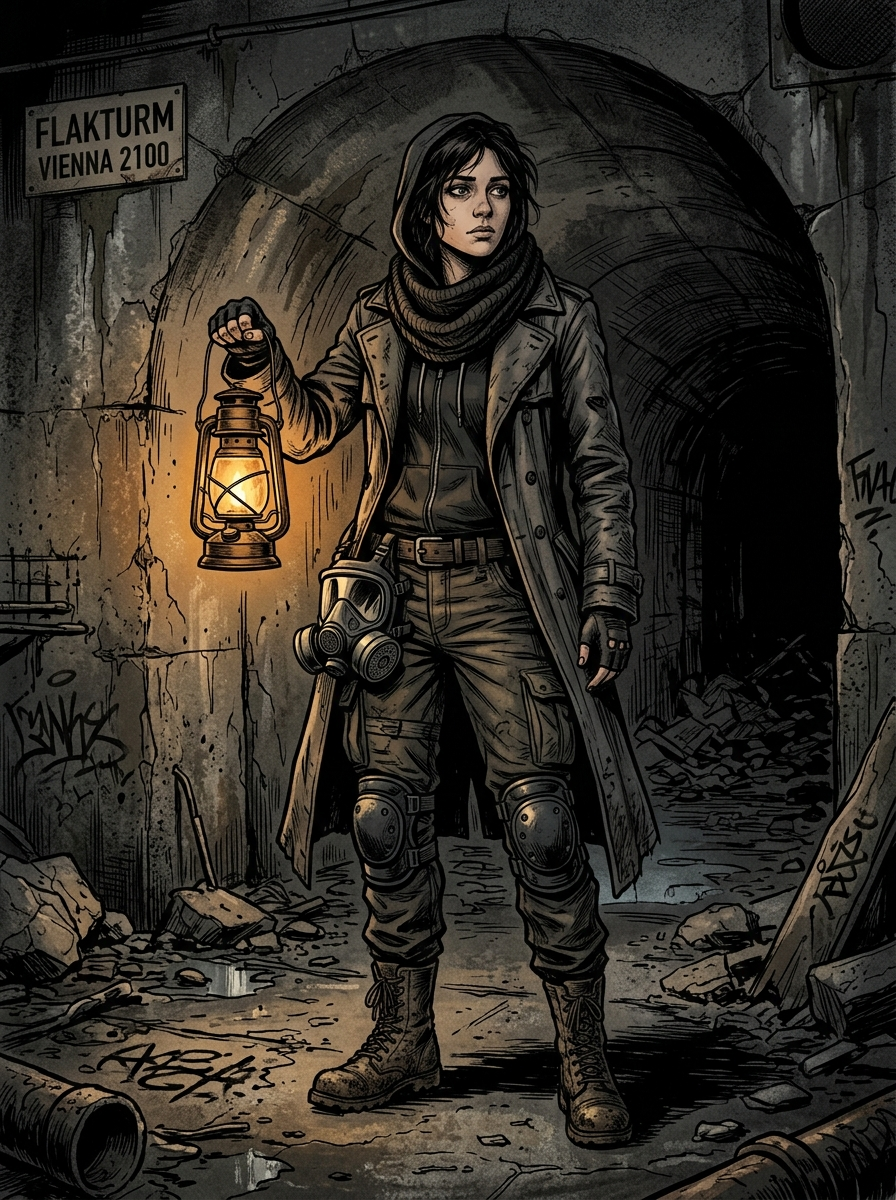
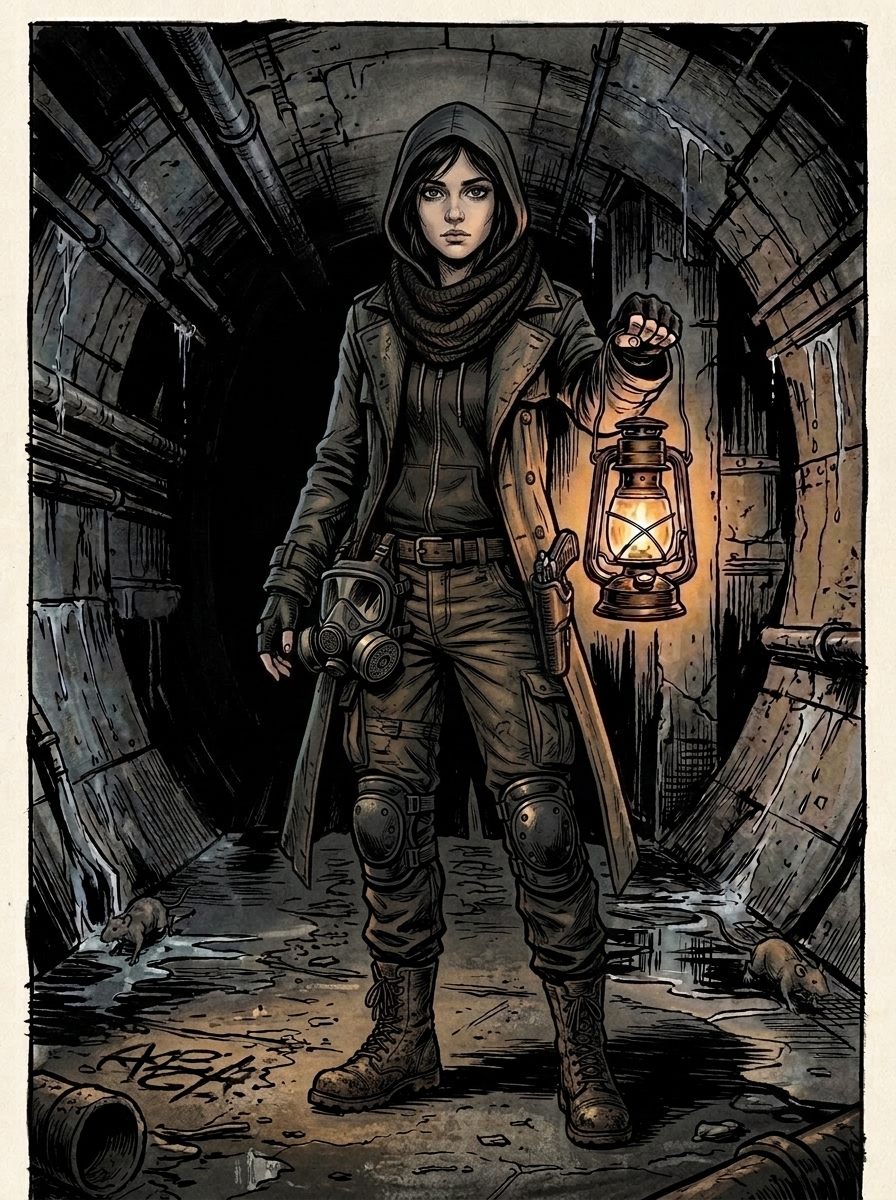
The beginning is the most important part of the work.

diff --git a/src/apps/and-now/docs/concept-dossier.html b/src/apps/and-now/docs/concept-dossier.html
@@ -394,16 +394,16 @@
             <img src="./assets/novotny-male/hoodie.jpg" alt="Novotny (Männlich) mit Hoodie und Loop-Schal im Flakturm" />
           </div>
           <div class="card-content">
-            <span class="card-category">Charakter-Konzept (Staubschutz-Modus)</span>
+            <span class="card-category">Kanonischer Ur-Charakter (Adam)</span>
             <h3 class="card-title">Novotny — Der Schacht-Inspektor</h3>
             <p class="card-desc">
-              Kapuze aufgesetzt, hochgezogener Woll-Loop-Schal als textiler Staubschutz über Mund und Nase unter dem hochgeschlagenen Loden-Trenchcoat. Warmes Licht der Kerosin-Sturmlaterne auf feuchtem Beton.
+              Kapuze aufgesetzt, Gesicht und melancholischer Blick frei, Woll-Loop-Schal als Kragen, Loden-Trenchcoat. Kerosin-Sturmlaterne in der linken Hand, Holster vorne links und Dual-Filter Gasmaske vorne rechts am Zwei-Gürtel-System.
             </p>
             <div class="card-tags">
-              <span class="tag">Hoodie & Kapuze</span>
-              <span class="tag">Loop-Schal</span>
-              <span class="tag">Schacht-Trench</span>
-              <span class="tag">Sturmlaterne</span>
+              <span class="tag">Kanonischer Ur-Typ</span>
+              <span class="tag">Zwei-Gürtel-System</span>
+              <span class="tag">Laterne Links</span>
+              <span class="tag">Graphic Noir</span>
             </div>
           </div>
         </article>
@@ -414,15 +414,15 @@
             <img src="./assets/novotny-female/hoodie.jpg" alt="Novotny (Weiblich) im Schleusenbereich" />
           </div>
           <div class="card-content">
-            <span class="card-category">Charakter-Konzept (Kammerspiel-Modus)</span>
+            <span class="card-category">Kanonischer Ur-Charakter (Eva)</span>
             <h3 class="card-title">Novotny — Die Schleusenwärterin</h3>
             <p class="card-desc">
-              Kapuze lässig über das Haar gezogen, Loop-Schal locker um den Hals als wärmender Kragen. Melancholische, suchende Ausstrahlung in den tiefen Schächten des Flakturms Arenberg.
+              Kapuze aufgesetzt, Gesicht und ausdrucksstarke Augen frei. Hoodie mit Kängurutaschen, Reißverschluss und Kordeln unter dem Loden-Trenchcoat. Laterne in der linken Hand, Holster vorne links und Gasmaske vorne rechts am Zwei-Gürtel-System.
             </p>
             <div class="card-tags">
-              <span class="tag">Weibliche Variante</span>
-              <span class="tag">Freie Identität</span>
-              <span class="tag">Schlauchschal</span>
+              <span class="tag">Känguru-Hoodie</span>
+              <span class="tag">Zwei-Gürtel-System</span>
+              <span class="tag">Laterne Links</span>
               <span class="tag">Graphic Noir</span>
             </div>
           </div>

diff --git a/src/apps/and-now/docs/log.md b/src/apps/and-now/docs/log.md
@@ -617,6 +617,20 @@ befüllen.
      - *Zustände:* Kann am Gürtel getragen (State 1: BASE) oder aktiv auf das Gesicht aufgesetzt werden (State 2: HAZARD).
 - **Integration:** Festgehalten in [`.agents/skills/character-pipeline/SKILL.md`](file:///Users/srottensteiner/PhpstormProjects/small-world/.agents/skills/character-pipeline/SKILL.md) und [`docs/adr/0009-character-pipeline-and-mixamo-rigging-standard.md`](file:///Users/srottensteiner/PhpstormProjects/small-world/docs/adr/0009-character-pipeline-and-mixamo-rigging-standard.md).
 
+## 64. Harmonisierung der „Adam & Eva“ Ur-Bilder (hoodie.jpg M & W) (2026-08-28)
+- **Kanonische Ur-Bilder re-generiert & synchronisiert:**
+  - [`novotny-male/hoodie.jpg`](file:///Users/srottensteiner/PhpstormProjects/small-world/src/apps/and-now/docs/assets/novotny-male/hoodie.jpg) („Adam“) und [`novotny-female/hoodie.jpg`](file:///Users/srottensteiner/PhpstormProjects/small-world/src/apps/and-now/docs/assets/novotny-female/hoodie.jpg) („Eva“) als absolute Vorlagen und Referenzanker harmonisiert.
+- **Exakt aufeinander abgestimmte Merkmale:**
+  1. **Laterne (Linke Hand):** Beide halten die Kerosin-Sturmlaterne in der linken Hand (Viewer-Perspektive: rechts im Bild); die rechte Hand bleibt frei.
+  2. **Zwei-Gürtel-System & Sockets:** Holster vorne links (Cross-Draw), Dual-Filter Gasmaske vorne rechts am Ausrüstungsgürtel.
+  3. **Kleidung & Details:**
+     - Weiblich: Hoodie mit 2 sichtbaren Känguru-Bauchtaschen, Reißverschluss und Kordeln unter dem Loden-Trenchcoat.
+     - Männlich: Authentischer Schacht-Trenchcoat über dem Hoodie mit dickem Woll-Schal.
+     - Beide: Kapuze aufgesetzt, Gesicht und Blick frei (keine Maske, kein Staubschutz-Tuch über Mund/Nase).
+  4. **Atmosphäre:** Wiener U-Bahn / Flakturm Schächte mit feuchtem Beton, Pfützen-Reflexionen und Ratten auf dem Boden.
+- **Status:** In [`concept-dossier.html`](file:///Users/srottensteiner/PhpstormProjects/small-world/src/apps/and-now/docs/concept-dossier.html) integriert.
+
+
 
 
 
